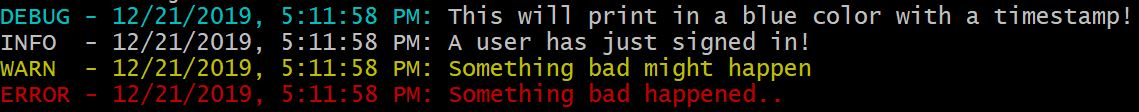
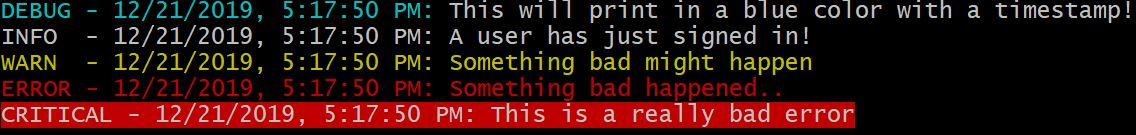
Adds critical() method in README

diff --git a/README.md b/README.md
@@ -18,17 +18,15 @@ const Logger = require("@xwyatt/just-another-logger");
 Just Another Logger has 5 printing methods, and one method to toggle method.
 
 ### Available Methods
-- setDebug(`boolean`) : This toggles debug mode. When on (`true`) .debug() messages will print; .debug() messages will be ignored if off (`false`)
+| method(`expected type`) | Description |
+| -- | -- |
+| setDebug(`boolean`) | This toggles debug mode. When on (`true`) .debug() messages will print; .debug() messages will be ignored if off (`false`) |
+| debug(`string`) | This prints a debug message. This is Cyan in color and is prefixed with "DEBUG" |
+| info(`string`) | This prints an informational message. This is grey in color and is prefixed with "INFO" |
+| warning(`string`)  | This prints a warning message. This is yellow in color and is prefixed with "WARN" |
+| error(`string`) | This prints an error message. This is red in color and is prefixed with "ERROR" |
+| critical(`string`) | This prints a critical error message. This is white in color, with a red background, and prefixed with "CRITICAL" |
 
-- debug(`string`) : This prints a debug message. This is Cyan in color and is prefixed with "DEBUG"
-
-- info(`string`) : This prints an informational message. This is grey in color and is prefixed with "INFO"
-
-- warning(`string`)  : This prints a warning message. This is yellow in color and is prefixed with "WARN"
-
-- error(`string`) : This prints an error message. This is red in color and is prefixed with "ERROR"
-
-- critical(`string`) : This prints a critical error message. This is white in color, with a red background, and prefixed with "CRITICAL"
 
 ### Example Usage
 ```
@@ -41,6 +39,7 @@ Logger.debug("This will print in a blue color with a timestamp!");
 Logger.info("A user has just signed in!"); // Informational Message
 Logger.warning("Something bad might happen"); // Yellow warning message!
 Logger.error("Something bad happened.."); // Error Message
+Logger.critical("This is a really bad error"); // Critical Error
 ```
 
 Output from the above usage:
